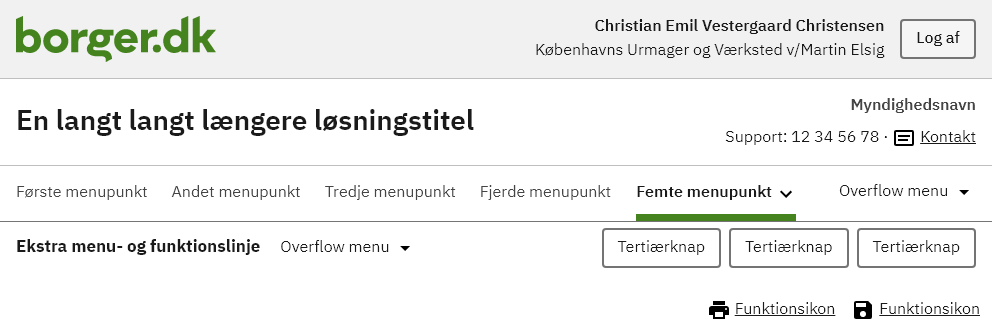
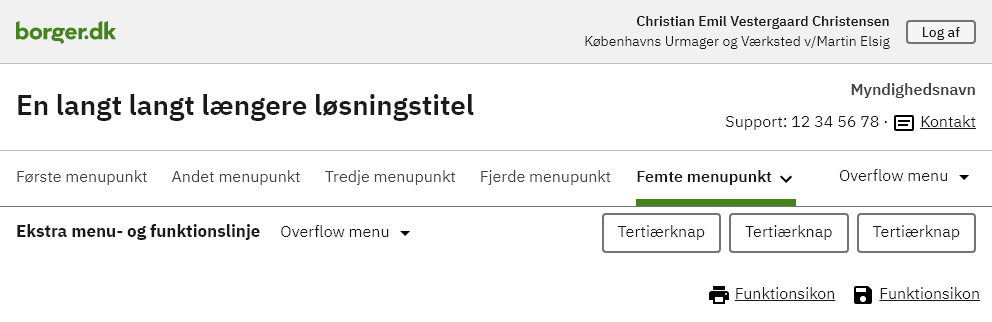
Header examples as compact

diff --git a/_includes/code/components/header-medium.html b/_includes/code/components/header-medium.html
@@ -1,12 +1,12 @@
 <header class="header">
 
     <!--1A: Portal header -->
-    <div class="portal-header">
+    <div class="portal-header portal-header-compact">
         <div class="container portal-header-inner">
             <a href="#" title="Hjem" class="logo alert-leave"><span
                     class="d-none d-print-block">Portalnavn</span></a>
             <button
-                class="button button-secondary button-menu-open js-menu-open ml-auto d-print-none"
+                class="button button-secondary button-small button-menu-open js-menu-open ml-auto d-print-none"
                 aria-haspopup="menu" title="Åben mobil menu">Menu</button>
 
             <!-- 1B: Portal header: info + actions-->
@@ -14,11 +14,10 @@
                 <p class="user"><span class="weight-semibold">Christian
                         Emil Vestergaard
                         Christensen</span><br />Københavns Urmager og Værksted v/Martin Elsig</p>
-                <a href="#"
-                    class="button button-secondary alert-leave d-print-none"
-                    role="button">
+                <button
+                    class="button button-secondary button-small alert-leave d-print-none">
                     Log af
-                </a>
+                </button>
             </div>
         </div>
     </div>

diff --git a/_includes/code/components/header-full.html b/_includes/code/components/header-full.html
@@ -1,7 +1,7 @@
 <header class="header">
 
     <!-- Start: Portal header -->
-    <div class="portal-header">
+    <div class="portal-header portal-header-compact">
         <div class="container portal-header-inner">
             <!-- Start: Portallogo -->
             <a href="#" class="logo"><span
@@ -9,7 +9,7 @@
             <!-- Slut: Portallogo -->
 
             <button
-                class="button button-secondary button-menu-open js-menu-open ml-auto d-print-none"
+                class="button button-secondary button-small button-menu-open js-menu-open ml-auto d-print-none"
                 aria-haspopup="menu" title="Åben mobil menu">Menu</button>
 
             <!-- Start: Persondetaljer -->
@@ -17,10 +17,10 @@
                 <p class="user"><span class="weight-semibold">Christian
                         Emil Vestergaard
                         Christensen</span><br />Københavns Urmager og Værksted v/Martin Elsig</p>
-                <a href="#" class="button button-secondary d-print-none"
-                    role="button">
+                <button href="#"
+                    class="button button-secondary button-small d-print-none">
                     Log af
-                </a>
+                </button>
             </div>
             <!-- Slut: Persondetaljer -->
         </div>
